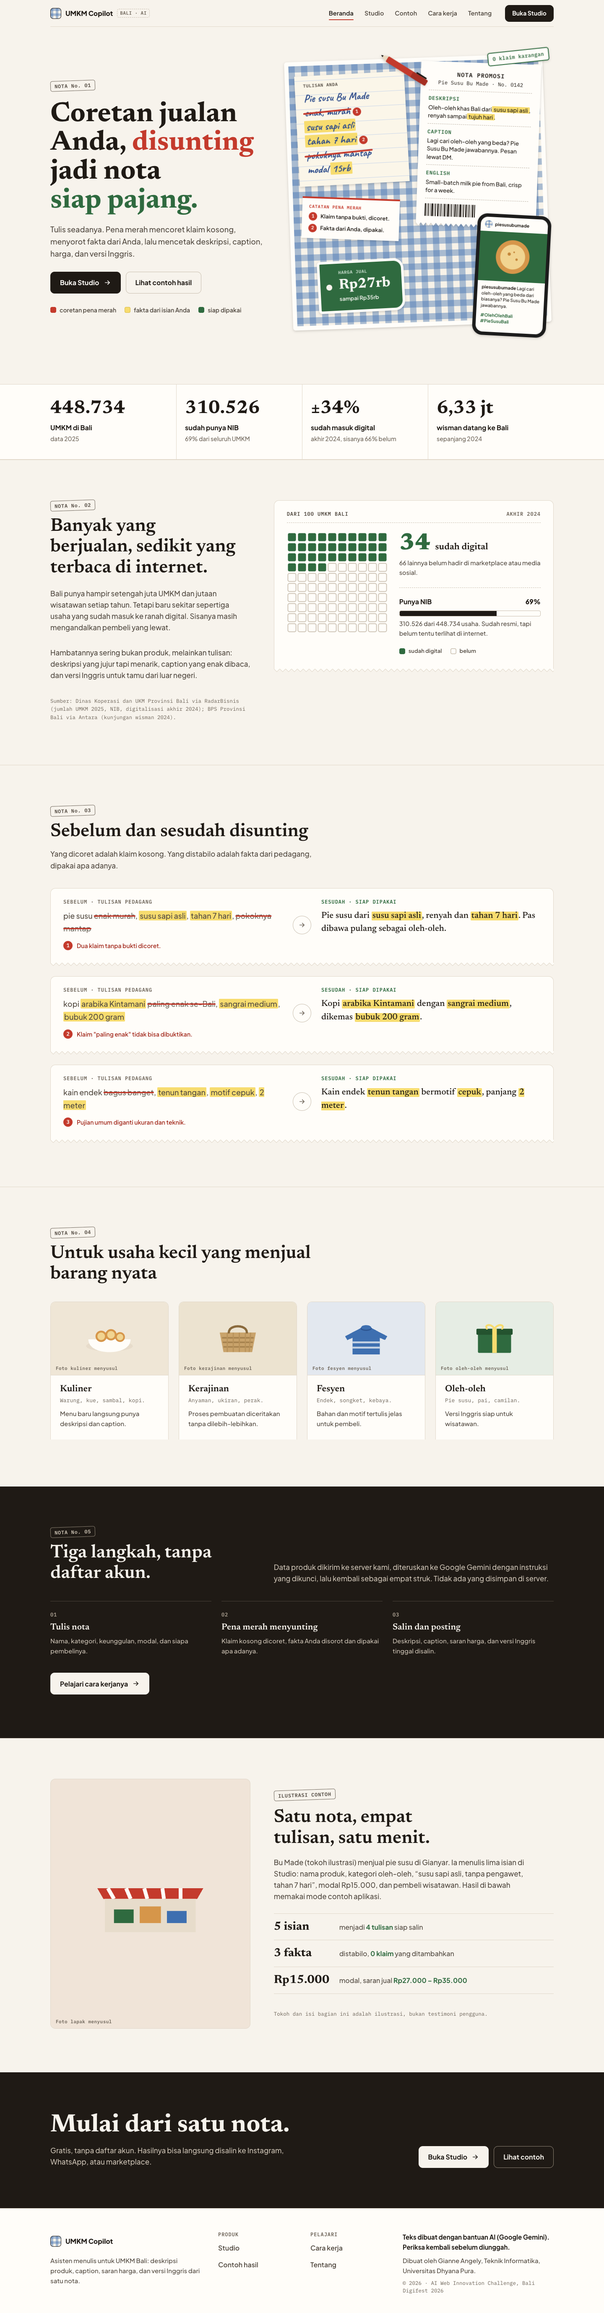
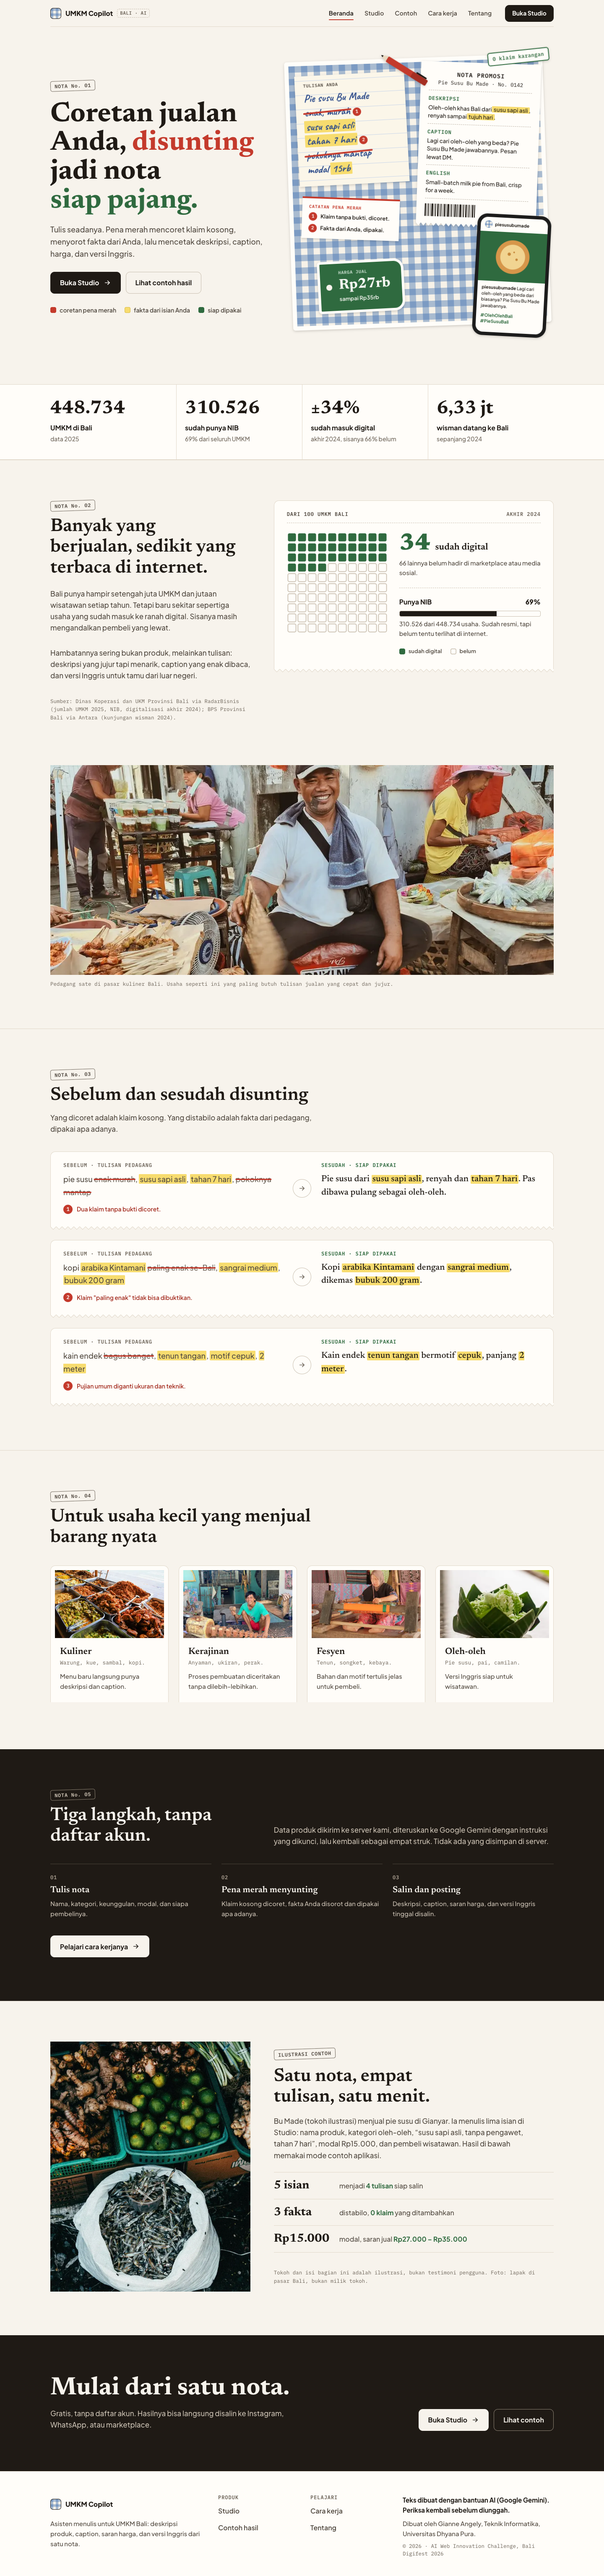
Pasang foto Pexels: kartu kategori, band foto beranda, studi kasus, dan Tentang
- Enam foto Pexels di public/foto/, dimuat lewat next/image dengan sizes dan titik fokus per foto
- Foto bersudut nol; kartu kategori memasang foto di dalam kartu
- Band foto pedagang di beranda dan foto latar belakang di Tentang
- Contoh di /contoh tetap memakai ilustrasi karena foto yang ada bukan produk contohnya
- Kredit fotografer di Tentang dan README

diff --git a/app/globals.css b/app/globals.css
@@ -381,7 +381,7 @@ mark, .stabilo { background: var(--stabilo); color: inherit; padding: 0 2px; bor
 @media (min-width: 640px) { .grid-4 { grid-template-columns: repeat(2, minmax(0, 1fr)); } }
 @media (min-width: 1100px) { .grid-4 { grid-template-columns: repeat(4, minmax(0, 1fr)); } }
 .siapa { display: flex; flex-direction: column; overflow: hidden; }
-.siapa .foto-slot { border-radius: 11px 11px 0 0; border-bottom: 1px solid var(--garis); }
+.siapa .foto-slot { margin: 10px 10px 0; }
 .siapa-isi { padding: 20px 22px 26px; }
 .siapa h3 { font: 600 22px/1.2 var(--serif); }
 .siapa-contoh { margin-top: 4px; font: 500 13px/1.4 var(--mono); color: var(--tinta-3); }
@@ -391,7 +391,6 @@ mark, .stabilo { background: var(--stabilo); color: inherit; padding: 0 2px; bor
 .foto-slot { position: relative; overflow: hidden; background: #efe6d6; }
 .foto-slot svg { position: absolute; inset: 0; width: 100%; height: 100%; padding: 8% 12% 14%; }
 .foto-label { position: absolute; left: 12px; bottom: 10px; font: 600 11px/1 var(--mono); letter-spacing: 0.04em; color: var(--tinta-3); }
-.foto-isi { position: absolute; inset: 0; background: center / cover no-repeat; }
 .foto-kerajinan { background: #ece3d0; }
 .foto-fesyen { background: #e3e8ef; }
 .foto-oleh-oleh { background: #e6ede4; }
@@ -414,7 +413,18 @@ mark, .stabilo { background: var(--stabilo); color: inherit; padding: 0 2px; bor
 
 /* ---------- Beranda: studi kasus ---------- */
 .kasus { align-items: center; }
-.kasus-foto .foto-slot { border-radius: 12px; border: 1px solid var(--garis); }
+.foto-band { padding: 0 0 72px; }
+@media (min-width: 1024px) { .foto-band { padding-bottom: 96px; } }
+.foto-band figure { margin: 0 auto; }
+.foto-band figcaption, .foto-kecil { margin-top: 12px; font: 500 12.5px/1.55 var(--mono); color: var(--tinta-3); }
+@media (max-width: 767px) { .foto-band .foto-slot { aspect-ratio: 4 / 3 !important; } }
+.kredit { list-style: none; margin: 0; padding: 6px 24px 14px; }
+.kredit li { display: flex; flex-wrap: wrap; align-items: center; justify-content: space-between; gap: 0 16px; padding: 6px 0; border-bottom: 1px dashed var(--garis-2); }
+.kredit li:last-child { border-bottom: 0; }
+.kredit li > span { color: var(--tinta-2); }
+.kredit a { display: inline-flex; align-items: center; gap: 8px; min-height: 44px; font-weight: 700; text-decoration: underline; text-decoration-color: var(--garis-2); text-underline-offset: 4px; }
+.kredit a:hover { text-decoration-color: var(--tinta); }
+.kredit-sumber { font: 600 11px/1 var(--mono); color: var(--tinta-3); }
 .kasus-angka { margin: 8px 0 0; display: grid; border-top: 1px solid var(--garis); }
 .kasus-angka div { display: grid; grid-template-columns: 140px 1fr; gap: 16px; align-items: baseline; padding: 16px 0; border-bottom: 1px solid var(--garis); }
 .kasus-angka dt { font: 700 28px/1.1 var(--serif); font-variant-numeric: tabular-nums; }

diff --git a/app/page.js b/app/page.js
@@ -64,7 +64,7 @@ const SEBELUM = [
 const SIAPA = [
   ["kuliner", "Kuliner", "Warung, kue, sambal, kopi.", "Menu baru langsung punya deskripsi dan caption."],
   ["kerajinan", "Kerajinan", "Anyaman, ukiran, perak.", "Proses pembuatan diceritakan tanpa dilebih-lebihkan."],
-  ["fesyen", "Fesyen", "Endek, songket, kebaya.", "Bahan dan motif tertulis jelas untuk pembeli."],
+  ["fesyen", "Fesyen", "Tenun, songket, kebaya.", "Bahan dan motif tertulis jelas untuk pembeli."],
   ["oleh-oleh", "Oleh-oleh", "Pie susu, pai, camilan.", "Versi Inggris siap untuk wisatawan."],
 ];
 
@@ -149,6 +149,13 @@ export default function Beranda() {
         </div>
       </section>
 
+      <section className="foto-band" aria-label="Foto pedagang di pasar Bali">
+        <figure className="wrap">
+          <FotoSlot nama="hero-umkm" rasio="12 / 5" sizes="(min-width: 1264px) 1200px, 100vw" />
+          <figcaption>Pedagang sate di pasar kuliner Bali. Usaha seperti ini yang paling butuh tulisan jualan yang cepat dan jujur.</figcaption>
+        </figure>
+      </section>
+
       <section className="bagian" aria-labelledby="sebelum-judul">
         <div className="wrap">
           <Kepala no={3} id="sebelum-judul" judul="Sebelum dan sesudah disunting"
@@ -178,7 +185,7 @@ export default function Beranda() {
           <ul className="grid-4">
             {SIAPA.map(([foto, judul, contoh, teks]) => (
               <Reveal as="li" className="kartu siapa" key={foto}>
-                <FotoSlot nama={foto} label={`Foto ${judul.toLowerCase()} menyusul`} />
+                <FotoSlot nama={foto} sizes="(min-width: 1100px) 280px, (min-width: 640px) 45vw, 92vw" />
                 <div className="siapa-isi">
                   <h3>{judul}</h3>
                   <p className="siapa-contoh">{contoh}</p>
@@ -223,7 +230,7 @@ export default function Beranda() {
       <section className="bagian" aria-labelledby="kasus-judul">
         <div className="wrap duo-57 kasus">
           <Reveal className="kasus-foto">
-            <FotoSlot nama="pasar" label="Foto lapak menyusul" rasio="4 / 5" />
+            <FotoSlot nama="pasar" rasio="4 / 5" sizes="(min-width: 1024px) 480px, 92vw" />
           </Reveal>
           <Reveal className="kolom-teks">
             <Cap>ILUSTRASI CONTOH</Cap>
@@ -238,7 +245,7 @@ export default function Beranda() {
               <div><dt>3 fakta</dt><dd>distabilo, <b>0 klaim</b> yang ditambahkan</dd></div>
               <div><dt>Rp15.000</dt><dd>modal, saran jual <b>Rp27.000 – Rp35.000</b></dd></div>
             </dl>
-            <p className="sumber">Tokoh dan isi bagian ini adalah ilustrasi, bukan testimoni pengguna.</p>
+            <p className="sumber">Tokoh dan isi bagian ini adalah ilustrasi, bukan testimoni pengguna. Foto: lapak di pasar Bali, bukan milik tokoh.</p>
           </Reveal>
         </div>
       </section>

diff --git a/app/tentang/page.js b/app/tentang/page.js
@@ -4,6 +4,15 @@ import Icon from "../components/Icon";
 
 export const metadata = { title: "Tentang" };
 
+const KREDIT = [
+  ["Pedagang sate di pasar kuliner Bali", "G Y", "https://www.pexels.com/photo/31246481/"],
+  ["Lapak kunyit, limau, dan teri di pasar Bali", "Stijn Dijkstra", "https://www.pexels.com/photo/38330312/"],
+  ["Lauk makanan jalanan Bali", "Kevin Yung", "https://www.pexels.com/photo/36892251/"],
+  ["Pengrajin ukir kayu di Ubud", "Smaart", "https://www.pexels.com/photo/32064709/"],
+  ["Penenun di depan kain tenun tangan", "Andreas Suwardy", "https://www.pexels.com/photo/40524482/"],
+  ["Jaja Bali dalam takir daun pisang", "Evert jan Hoek", "https://www.pexels.com/photo/36858325/"],
+];
+
 export default function TentangPage() {
   return (
     <>
@@ -21,7 +30,7 @@ export default function TentangPage() {
 
       <section className="bagian" aria-labelledby="latar-judul">
         <div className="wrap duo-57">
-          <FotoSlot nama="pasar" label="Foto pasar menyusul" rasio="4 / 3" />
+          <FotoSlot nama="hero-umkm" rasio="4 / 3" sizes="(min-width: 1024px) 480px, 92vw" />
           <div className="kolom-teks">
             <div className="kepala">
               <span className="cap">NOTA No. 01</span>
@@ -62,6 +71,24 @@ export default function TentangPage() {
               <h3>Next.js dan Google Gemini</h3>
               <p>Teks disusun oleh Gemini dari sisi server. Penulisan kode aplikasi dibantu Claude Code dan ditinjau oleh pembuat.</p>
             </li>
+          </ul>
+        </div>
+      </section>
+
+      <section className="bagian" aria-labelledby="kredit-judul">
+        <div className="wrap duo-57">
+          <div className="kepala">
+            <span className="cap">NOTA No. 03</span>
+            <h2 id="kredit-judul">Kredit foto</h2>
+            <p className="kepala-lead">Semua foto di situs ini diambil dari Pexels dengan lisensi Pexels. Terima kasih kepada para fotografer.</p>
+          </div>
+          <ul className="kartu kredit">
+            {KREDIT.map(([isi, nama, url]) => (
+              <li key={url}>
+                <span>{isi}</span>
+                <a href={url} target="_blank" rel="noopener noreferrer">{nama} <span className="kredit-sumber">Pexels</span></a>
+              </li>
+            ))}
           </ul>
         </div>
       </section>

diff --git a/app/components/FotoSlot.js b/app/components/FotoSlot.js
@@ -1,5 +1,17 @@
-// Bingkai foto dengan rasio tetap. Foto dari public/foto/<nama>.jpg menutupi ilustrasi
-// begitu filenya ada; selama belum ada, ilustrasi SVG dan labelnya yang terlihat.
+import Image from "next/image";
+
+// Bingkai foto dengan rasio tetap. Foto Pexels ada di public/foto/ (kredit di halaman Tentang).
+// Titik fokus diatur per foto supaya wajah atau objek utama tidak terpotong.
+// Untuk produk contoh yang tidak punya foto, bingkai menampilkan ilustrasi SVG.
+
+const FOTO = {
+  "hero-umkm": { alt: "Pedagang sate tersenyum di depan panggangan di pasar kuliner Bali", fokus: "42% 38%" },
+  pasar: { alt: "Kunyit, jeruk limau, dan ikan teri kering di lapak pasar Bali", fokus: "50% 55%" },
+  kuliner: { alt: "Deretan lauk makanan jalanan Bali di nampan logam", fokus: "50% 45%" },
+  kerajinan: { alt: "Pengrajin ukir kayu tersenyum sambil memahat di Ubud", fokus: "55% 55%" },
+  fesyen: { alt: "Penenun bekerja di alat tenun di depan kain tenun tangan", fokus: "50% 72%" },
+  "oleh-oleh": { alt: "Jaja Bali dalam takir daun pisang", fokus: "50% 45%" },
+};
 
 const GAMBAR = {
   kuliner: (
@@ -44,12 +56,19 @@ const GAMBAR = {
   ),
 };
 
-export default function FotoSlot({ nama, label, rasio = "16 / 10", className = "" }) {
+export default function FotoSlot({ nama, label, rasio = "16 / 10", sizes = "100vw", ilustrasi = false, prioritas = false, className = "" }) {
+  const foto = !ilustrasi && FOTO[nama];
   return (
     <div className={`foto-slot foto-${nama} ${className}`} style={{ aspectRatio: rasio }}>
-      <svg viewBox="0 0 200 125" preserveAspectRatio="xMidYMid meet" aria-hidden="true">{GAMBAR[nama] || GAMBAR.pasar}</svg>
-      <span className="foto-label">{label}</span>
-      <span className="foto-isi" style={{ backgroundImage: `url(/foto/${nama}.jpg)` }} role="img" aria-label={label} />
+      {foto ? (
+        <Image src={`/foto/${nama}.jpg`} alt={foto.alt} fill sizes={sizes} priority={prioritas}
+          style={{ objectFit: "cover", objectPosition: foto.fokus }} />
+      ) : (
+        <>
+          <svg viewBox="0 0 200 125" preserveAspectRatio="xMidYMid meet" aria-hidden="true">{GAMBAR[nama] || GAMBAR.pasar}</svg>
+          {label && <span className="foto-label">{label}</span>}
+        </>
+      )}
     </div>
   );
 }

diff --git a/app/contoh/Galeri.js b/app/contoh/Galeri.js
@@ -15,7 +15,7 @@ function Kartu({ c }) {
   return (
     <article className="kartu contoh">
       <div className="contoh-kiri">
-        <FotoSlot nama={c.foto} label={`Foto ${c.form.nama} menyusul`} />
+        <FotoSlot nama={c.foto} label="ILUSTRASI PRODUK" ilustrasi />
         <div className="contoh-nota">
           <p className="nota-judul"><span>NOTA PRODUK</span><span className="cap cap-kecil">CONTOH</span></p>
           <h2>{c.form.nama}</h2>

diff --git a/README.md b/README.md
@@ -118,7 +118,14 @@ Tidak diperlukan. Aplikasi bisa dipakai tanpa login.
 - [Zod](https://zod.dev) untuk skema dan validasi (MIT)
 - Font [Plus Jakarta Sans](https://fonts.google.com/specimen/Plus+Jakarta+Sans), [Newsreader](https://fonts.google.com/specimen/Newsreader), [IBM Plex Mono](https://fonts.google.com/specimen/IBM+Plex+Mono), dan [Caveat](https://fonts.google.com/specimen/Caveat) dari Google Fonts (SIL Open Font License 1.1). Berkas WOFF2 subset Latin disimpan di `app/fonts/` dan dimuat lewat `next/font/local`, jadi build tidak bergantung pada server Google. Rincian lisensi di `app/fonts/LICENSE.md`
 - Gemini API oleh Google
-- Ilustrasi hero (taplak kotak, nota, struk, label harga, HP, pena) dan ikon digambar langsung dengan CSS dan SVG inline, tanpa pustaka ikon, foto, atau gambar hasil generator
+- Ilustrasi hero (taplak kotak, nota, struk, label harga, HP, pena) dan ikon digambar langsung dengan CSS dan SVG inline, tanpa pustaka ikon atau gambar hasil generator
+- Foto dari [Pexels](https://www.pexels.com) (lisensi Pexels), disimpan di `public/foto/`:
+  - `hero-umkm.jpg`, pedagang sate di pasar kuliner Bali, oleh [G Y](https://www.pexels.com/photo/31246481/)
+  - `pasar.jpg`, kunyit, jeruk limau, dan ikan teri di pasar Bali, oleh [Stijn Dijkstra](https://www.pexels.com/photo/38330312/)
+  - `kuliner.jpg`, lauk makanan jalanan Bali, oleh [Kevin Yung](https://www.pexels.com/photo/36892251/)
+  - `kerajinan.jpg`, pengrajin ukir kayu di Ubud, oleh [Smaart](https://www.pexels.com/photo/32064709/)
+  - `fesyen.jpg`, penenun di depan kain tenun tangan, oleh [Andreas Suwardy](https://www.pexels.com/photo/40524482/)
+  - `oleh-oleh.jpg`, jaja Bali dalam takir daun pisang, oleh [Evert jan Hoek](https://www.pexels.com/photo/36858325/)
 
 ## Team Members
 
